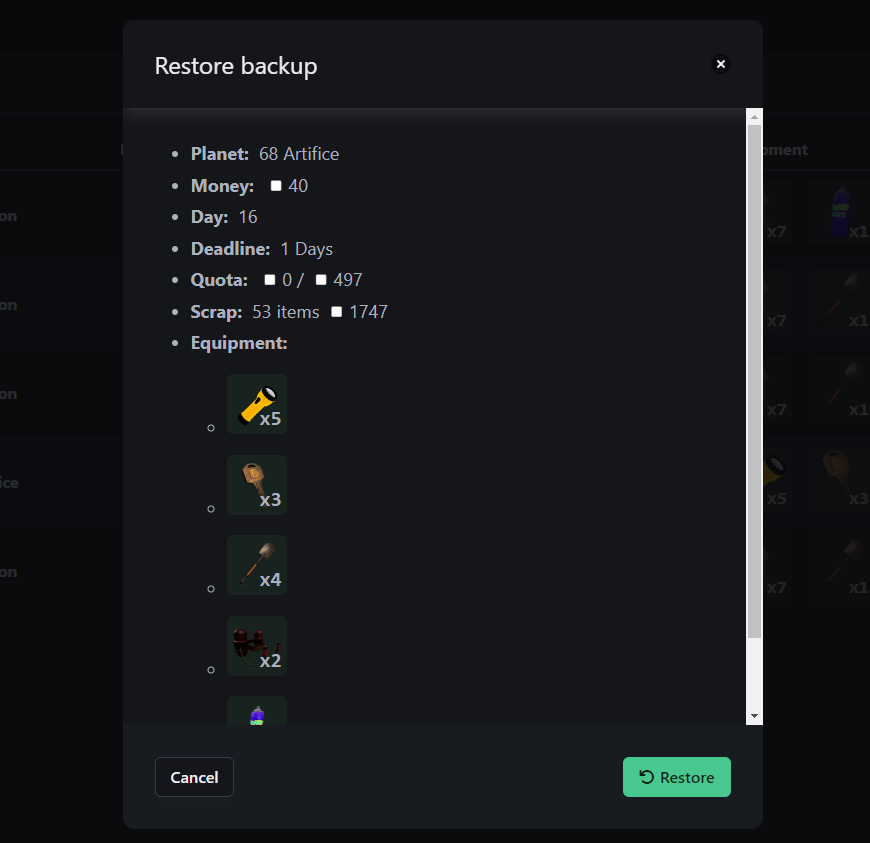
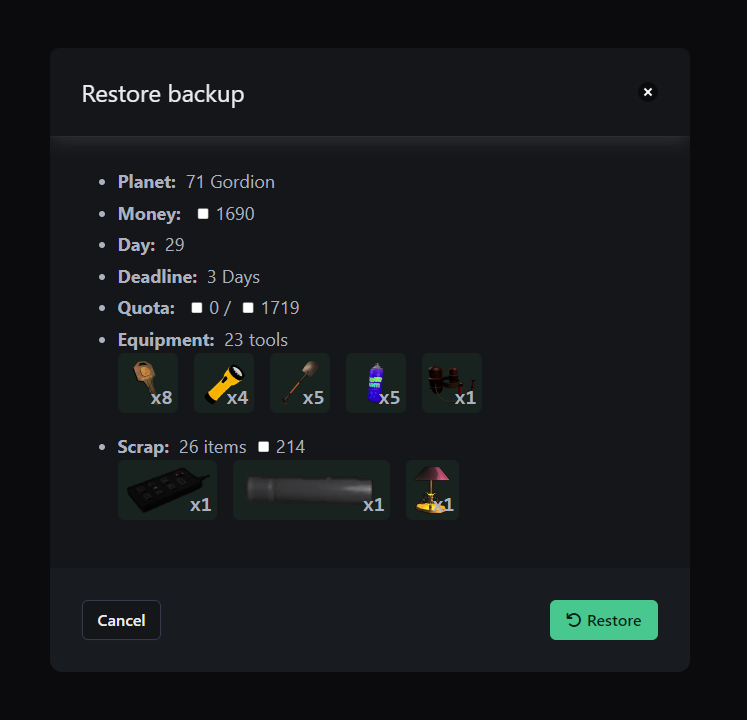
Changed the restore modal to better display the items

diff --git a/vue/src/components/ModalRestore.vue b/vue/src/components/ModalRestore.vue
@@ -43,23 +43,34 @@
             </li>
 
             <li>
-              <b style="margin-right: 5px;">Scrap:</b>
-              {{ entry.infos.nbLoots + ' items ◽' + entry.infos.totalLootValue }}
+              <b style="margin-right: 5px;">Equipment:</b> {{ equipment.amount }} tools<br/>
+              <div
+                  v-for="(amount, name) in equipment.list"
+                  class="item-icon"
+                  style="height: 60px;margin-bottom: 16px;"
+              >
+                <img
+                    :src="$axios.defaults.baseURL + '/item_icon/' + name + '.webp'"
+                    style="height: 60px;padding: 5px;"
+                >
+                <span class="is-family-monospace item-amount">x{{ amount }}</span><br/>
+              </div>
             </li>
 
             <li>
-              <b style="margin-right: 5px;">Equipment:</b>
-              <ul>
-                <li v-for="(amount, equipmentName) in extractEquipment(entry)">
-                  <div class="item-icon" style="height: 60px;margin-bottom: 16px;">
-                    <img
-                        :src="$axios.defaults.baseURL + '/item_icon/' + equipmentName + '.webp'"
-                        style="height: 60px;padding: 5px;"
-                    >
-                    <span class="is-family-monospace item-amount">x{{ amount }}</span><br/>
-                  </div>
-                </li>
-              </ul>
+              <b style="margin-right: 5px;">Scrap:</b>
+              {{ entry.infos.nbLoots + ' items ◽' + entry.infos.totalLootValue }}<br/>
+              <div
+                  v-for="(amount, name) in items.list"
+                  class="item-icon"
+                  style="height: 60px;margin-bottom: 16px;"
+              >
+                <img
+                    :src="$axios.defaults.baseURL + '/item_icon/' + name + '.webp'"
+                    style="height: 60px;padding: 5px;"
+                >
+                <span class="is-family-monospace item-amount">x{{ amount }}</span><br/>
+              </div>
             </li>
 
           </ul>
@@ -119,32 +130,36 @@ export default {
     },
 
     extractItems(entry) {
-      let equipment = {};
+      let items = {
+        list: {},
+        amount: 0,
+      };
 
       // entry.infos.shipGrabbableItemIDs.value is an array
       for (let id of entry.infos.shipGrabbableItemIDs.value) {
-        let itemName = 'Unknown (ID: ' + id + ')';
+        let itemName = 'unknown';
 
         if (id in this.indexedItems) {
-          itemName = this.indexedItems[id].name;
-
           if (this.indexedItems[id].tool) continue;
-        } else {
-          // May not be an equipment, skip
-          continue;
+          itemName = this.indexedItems[id].name;
         }
 
-        if (itemName in equipment)
-          equipment[itemName]++;
+        if (itemName in items.list)
+          items.list[itemName]++;
         else
-          equipment[itemName] = 1;
+          items.list[itemName] = 1;
+
+        items.amount++;
       }
 
-      return equipment;
+      return items;
     },
 
     extractEquipment(entry) {
-      let equipment = {};
+      let equipment = {
+        list: {},
+        amount: 0,
+      };
 
       // entry.infos.shipGrabbableItemIDs.value is an array
       for (let id of entry.infos.shipGrabbableItemIDs.value) {
@@ -159,10 +174,12 @@ export default {
           continue;
         }
 
-        if (itemName in equipment)
-          equipment[itemName]++;
+        if (itemName in equipment.list)
+          equipment.list[itemName]++;
         else
-          equipment[itemName] = 1;
+          equipment.list[itemName] = 1;
+
+        equipment.amount++;
       }
 
       return equipment;
@@ -185,5 +202,15 @@ export default {
       }
     }
   },
+
+  computed: {
+    equipment() {
+      return this.extractEquipment(this.entry);
+    },
+
+    items() {
+      return this.extractItems(this.entry);
+    },
+  }
 }
 </script>
